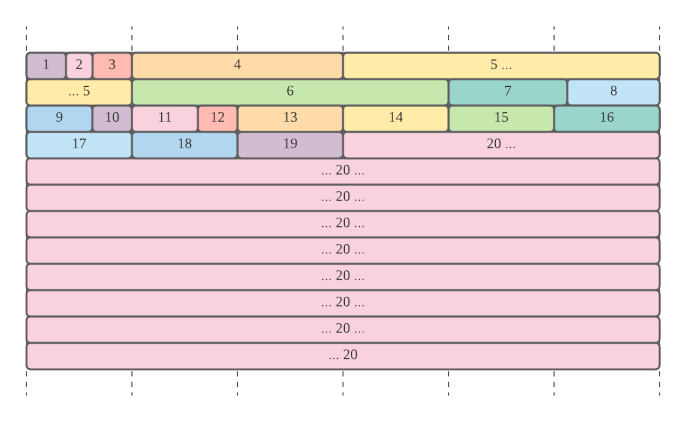
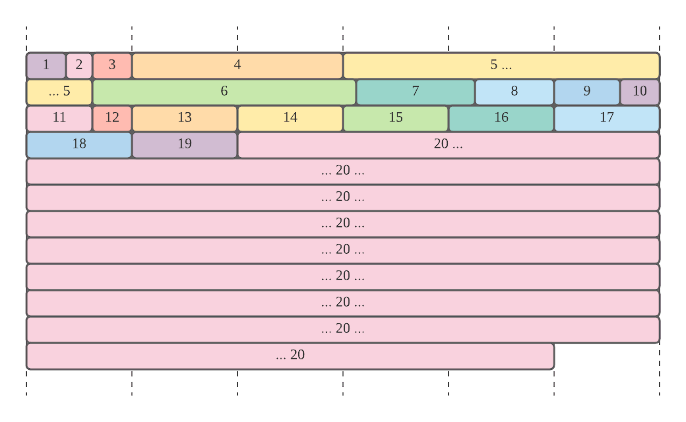
Store Tetris frame in 71 bytes instead of 72 bytes

diff --git a/public/js/BinaryFrame.js b/public/js/BinaryFrame.js
@@ -89,27 +89,34 @@ class BinaryFrame {
 			((sanitized.game_type & 0b11) << 3)
 		);
 
-		// gameid
+		// gameid - 16 bits
 		buffer[bidx++] = (sanitized.gameid & 0xFF00) >> 8;
 		buffer[bidx++] = (sanitized.gameid & 0x00FF) >> 0;
 
-		// ctime
-		buffer[bidx++] = (sanitized.ctime & 0xFF000000) >> 24;
-		buffer[bidx++] = (sanitized.ctime & 0x00FF0000) >> 16;
-		buffer[bidx++] = (sanitized.ctime & 0x0000FF00) >>  8;
-		buffer[bidx++] = (sanitized.ctime & 0x000000FF) >>  0;
+		// ctime - 28 bits
+		buffer[bidx++] = (sanitized.ctime & 0xFF00000) >> 20;
+		buffer[bidx++] = (sanitized.ctime & 0x00FF000) >> 12;
+		buffer[bidx++] = (sanitized.ctime & 0x0000FF0) >>  4;
+		buffer[bidx++] = (
+			((sanitized.ctime & 0x0F) << 4)
+			|
+			((sanitized.score & 0x1E0000) >> 17)
+		);
 
-		// score
-		buffer[bidx++] = (sanitized.score & 0xFF0000) >> 16;
-		buffer[bidx++] = (sanitized.score & 0x00FF00) >>  8;
-		buffer[bidx++] = (sanitized.score & 0x0000FF) >>  0;
+		// score - 21 bits
+		buffer[bidx++] = (sanitized.score & 0x1FE00) >> 9;
+		buffer[bidx++] = (sanitized.score & 0x001FE) >>  1;
+		buffer[bidx++] = (
+			((sanitized.score & 0b1) << 7)
+			|
+			((sanitized.lines & 0b111111100) >> 2)
+		);
 
 		// lines + level
-		buffer[bidx++] = (sanitized.lines & 0b111111110) >> 1;
 		buffer[bidx++] = (
-			((sanitized.lines & 0b1) << 7)
+			((sanitized.lines & 0b000000011) << 6)
 			|
-			(sanitized.level & 0b1111111)
+			(sanitized.level & 0b11111)
 		);
 
 		// instant_das + preview
@@ -167,12 +174,20 @@ class BinaryFrame {
 
 		pojo.gameid = (f[bidx++] << 8) | f[bidx++];
 
-		pojo.ctime = (f[bidx++] << 24) | (f[bidx++] << 16) | (f[bidx++] << 8) | f[bidx++];
+		pojo.ctime = (f[bidx++] << 20)
+			| (f[bidx++] << 12)
+			| (f[bidx++] << 4)
+			| ((f[bidx] & 0xF0) >> 4);
 
-		pojo.score = (f[bidx++] << 16) | (f[bidx++] << 8) | f[bidx++];
+		pojo.score = ((f[bidx++] & 0x0F) << 17)
+			| (f[bidx++] << 9)
+			| (f[bidx++] << 1)
+			| ((f[bidx] & 0b10000000) >> 7);
 
-		pojo.lines = (f[bidx++] << 1) | ((f[bidx] & 0b10000000) >> 7);
-		pojo.level = f[bidx++] & 0b1111111;
+		pojo.lines = ((f[bidx++] & 0b01111111) << 2)
+			| ((f[bidx] & 0b11000000) >> 6);
+
+		pojo.level = f[bidx++] & 0b0111111;
 
 		pojo.instant_das = (f[bidx] & 0b11111000) >> 3;
 		pojo.preview = f[bidx++] & 0b111;
@@ -200,9 +215,9 @@ class BinaryFrame {
 
 		// we've extracted all the value, now checks for nulls
 
-		if (pojo.score === 0xFFFFFF) pojo.score = null;
+		if (pojo.score === 0x1FFFFF) pojo.score = null;
 		if (pojo.lines === 0b111111111) pojo.lines = null;
-		if (pojo.level === 0b1111111) pojo.level = null;
+		if (pojo.level === 0b111111) pojo.level = null;
 		if (pojo.instant_das === 0b11111) pojo.instant_das = null;
 		if (pojo.cur_piece_das === 0b11111) pojo.cur_piece_das = null;
 

diff --git a/public/docs/index.html b/public/docs/index.html
@@ -214,7 +214,7 @@ th, td {
 
 <h1 id="binary_frame_format">Binary frame format</h1>
 
-<p>All captured frames are sent in binary and weight 576 bites (72 bytes) per frame. ON a capture setup of 60fps, the game stream requirements are therefore 72*60 = 4,320 B/s (~4KB/s).</p>
+<p>All captured frames are sent in binary and weight 568 bits (71 bytes) per frame. ON a capture setup of 60fps, the game stream requirements are therefore 71*60 = 4,260 B/s (~4KB/s).</p>
 
 <p>They have the format below.</p>
 
@@ -254,14 +254,14 @@ th, td {
 	<tr>
 		<td>5</td>
 		<td>Client time</td>
-		<td>32 bits</td>
-		<td>Number of milliseconds since producer connected.</td>
+		<td>28 bits</td>
+		<td>Number of milliseconds since producer connected. Range: ~74 hours</td>
 	</tr>
 	<tr>
 		<td>6</td>
 		<td>Score</td>
-		<td>24 bits</td>
-		<td>Unsigned int. Range: 16,777,216 (2<sup>24</sup>)</td>
+		<td>21 bits</td>
+		<td>Unsigned int. Range: 2,097,152 (2<sup>21</sup>)</td>
 	</tr>
 	<tr>
 		<td>7</td>
@@ -272,8 +272,8 @@ th, td {
 	<tr>
 		<td>8</td>
 		<td>Level</td>
-		<td>7 bits</td>
-		<td>Unsigned int. Range: 128</td>
+		<td>6 bits</td>
+		<td>Unsigned int. Range: 64</td>
 	</tr>
 	<tr>
 		<td>9</td>
